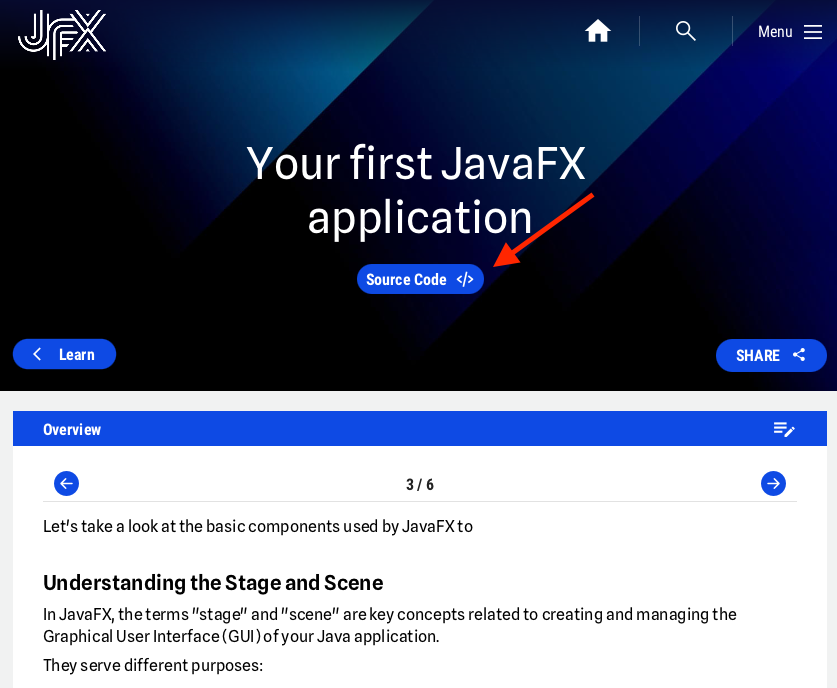
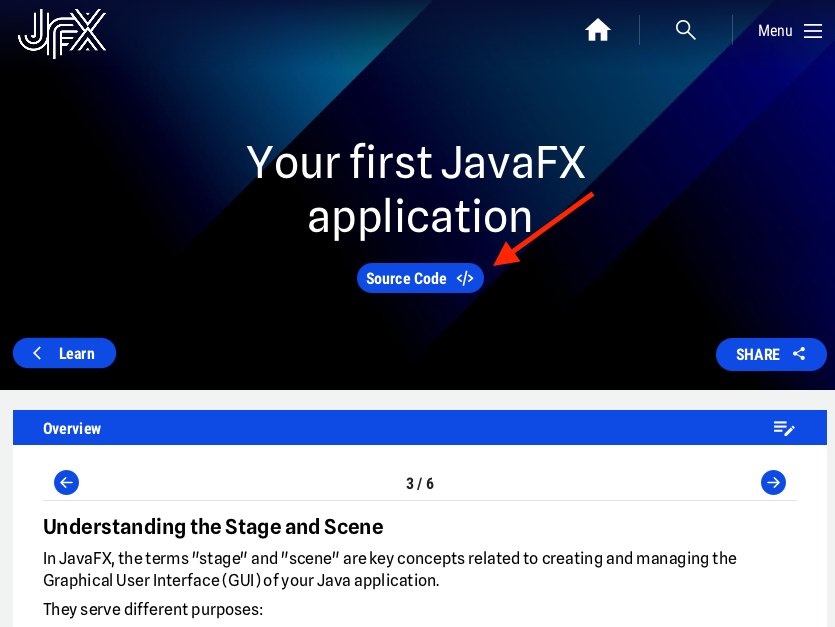
Learn typos

diff --git a/learn/javafx/ide-setup/readme.md b/learn/javafx/ide-setup/readme.md
@@ -1,6 +1,6 @@
 The easiest way to work on a Java project, is using an Integrated Development Environment (IDE). And you have many options, with most being free!
 
-Let's take a look at how you can creata a JavaFX project some of these IDEs.
+Let's take a look at how you can create a JavaFX project with some of these IDEs.
 
 ## Visual Studio Code
 

diff --git a/learn/javafx/hello-world/readme.md b/learn/javafx/hello-world/readme.md
@@ -1,4 +1,4 @@
-Let's take a look at the basic components used by JavaFX to 
+Let's take a look at the minimal code needed to create a JavaFX application.
 
 ## Understanding the Stage and Scene
 
